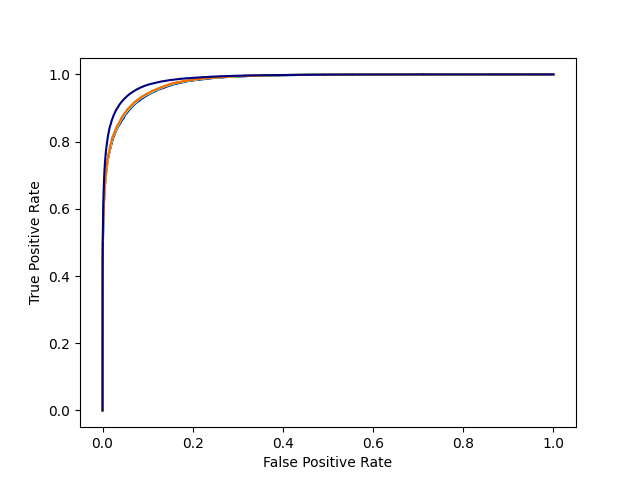
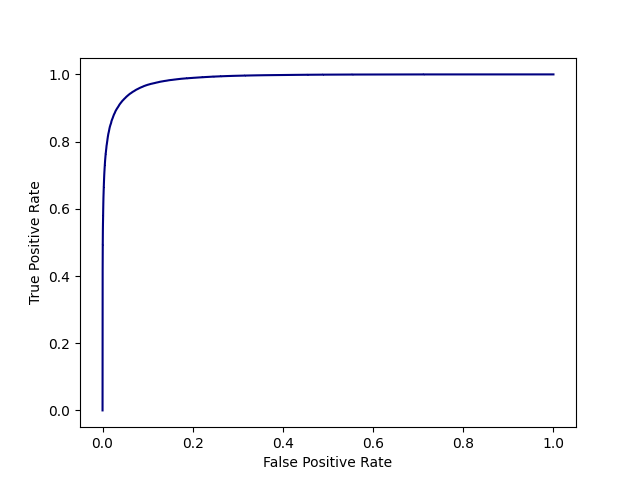
Edited plotting of testing ROC curves (included clarification of plot after validation.

Changed region(s): [[0.25, 0.1562, 0.375, 0.1875], [0.1562, 0.25, 0.1875, 0.375], [0.1875, 0.1875, 0.25, 0.25]]

diff --git a/scripts/model_flow.py b/scripts/model_flow.py
@@ -82,7 +82,13 @@ def validation_epoch(model, validateloader, loss_function, batch_size,
             
     epoch_targets = torch.cat(tensor_list, dim = 0)
     if ROC_curve_plot_file_dir != '':
-        plot_ROC_curve(epoch_targets, num_of_epochs, 
+        if epoch == num_of_epochs-1:
+            plot_ROC_curve(epoch_targets, num_of_epochs,
+                               numpy.array(epoch_outputs).flatten(),
+                               ROC_curve_plot_file_dir+'validation_'+
+                               str(epoch)+'_'+str(i)+'.png', True)
+        else:
+            plot_ROC_curve(epoch_targets, num_of_epochs, 
 			       numpy.array(epoch_outputs).flatten(), 
 			       ROC_curve_plot_file_dir+'validation_'+
 			       str(epoch)+'_'+str(i)+'.png')
@@ -93,7 +99,7 @@ def validation_epoch(model, validateloader, loss_function, batch_size,
                                 'validation_'+str(epoch)+'_'+
                                 str(i)+'.txt')
 
-def plot_ROC_curve(targets, num_of_epochs, outputs, fig_name):
+def plot_ROC_curve(targets, num_of_epochs, outputs, fig_name, clear_plot=False):
     # A function that plots ROC curve
     fpr, tpr, _ = metrics.roc_curve(targets, outputs)
     iterated_colors = [plt.get_cmap('jet')(1. * i/num_of_epochs) for i in range(num_of_epochs)]
@@ -102,6 +108,8 @@ def plot_ROC_curve(targets, num_of_epochs, outputs, fig_name):
     plt.ylabel('True Positive Rate')
     plt.xlabel('False Positive Rate')
     plt.savefig(fig_name)
+    if clear_plot:
+        plt.clf()
     
 def create_confusion_matrix(targets, outputs, file_path=''):
     # targets - 1D tensor
@@ -179,8 +187,8 @@ def test_epoch(model, test_loader, loss_function, optimizer, batch_size,
     plot_ROC_curve(epoch_targets, 1,
                    numpy.array(epoch_outputs).flatten(),
                    ROC_curve_plot_file_dir+'testing_0_'+
-                   str(i)+'.png')
-
+                   str(i)+'.png', True)
+    
     if confusion_matrix_file_dir != '':
         create_confusion_matrix(epoch_targets, epoch_outputs,
                                 confusion_matrix_file_dir+
